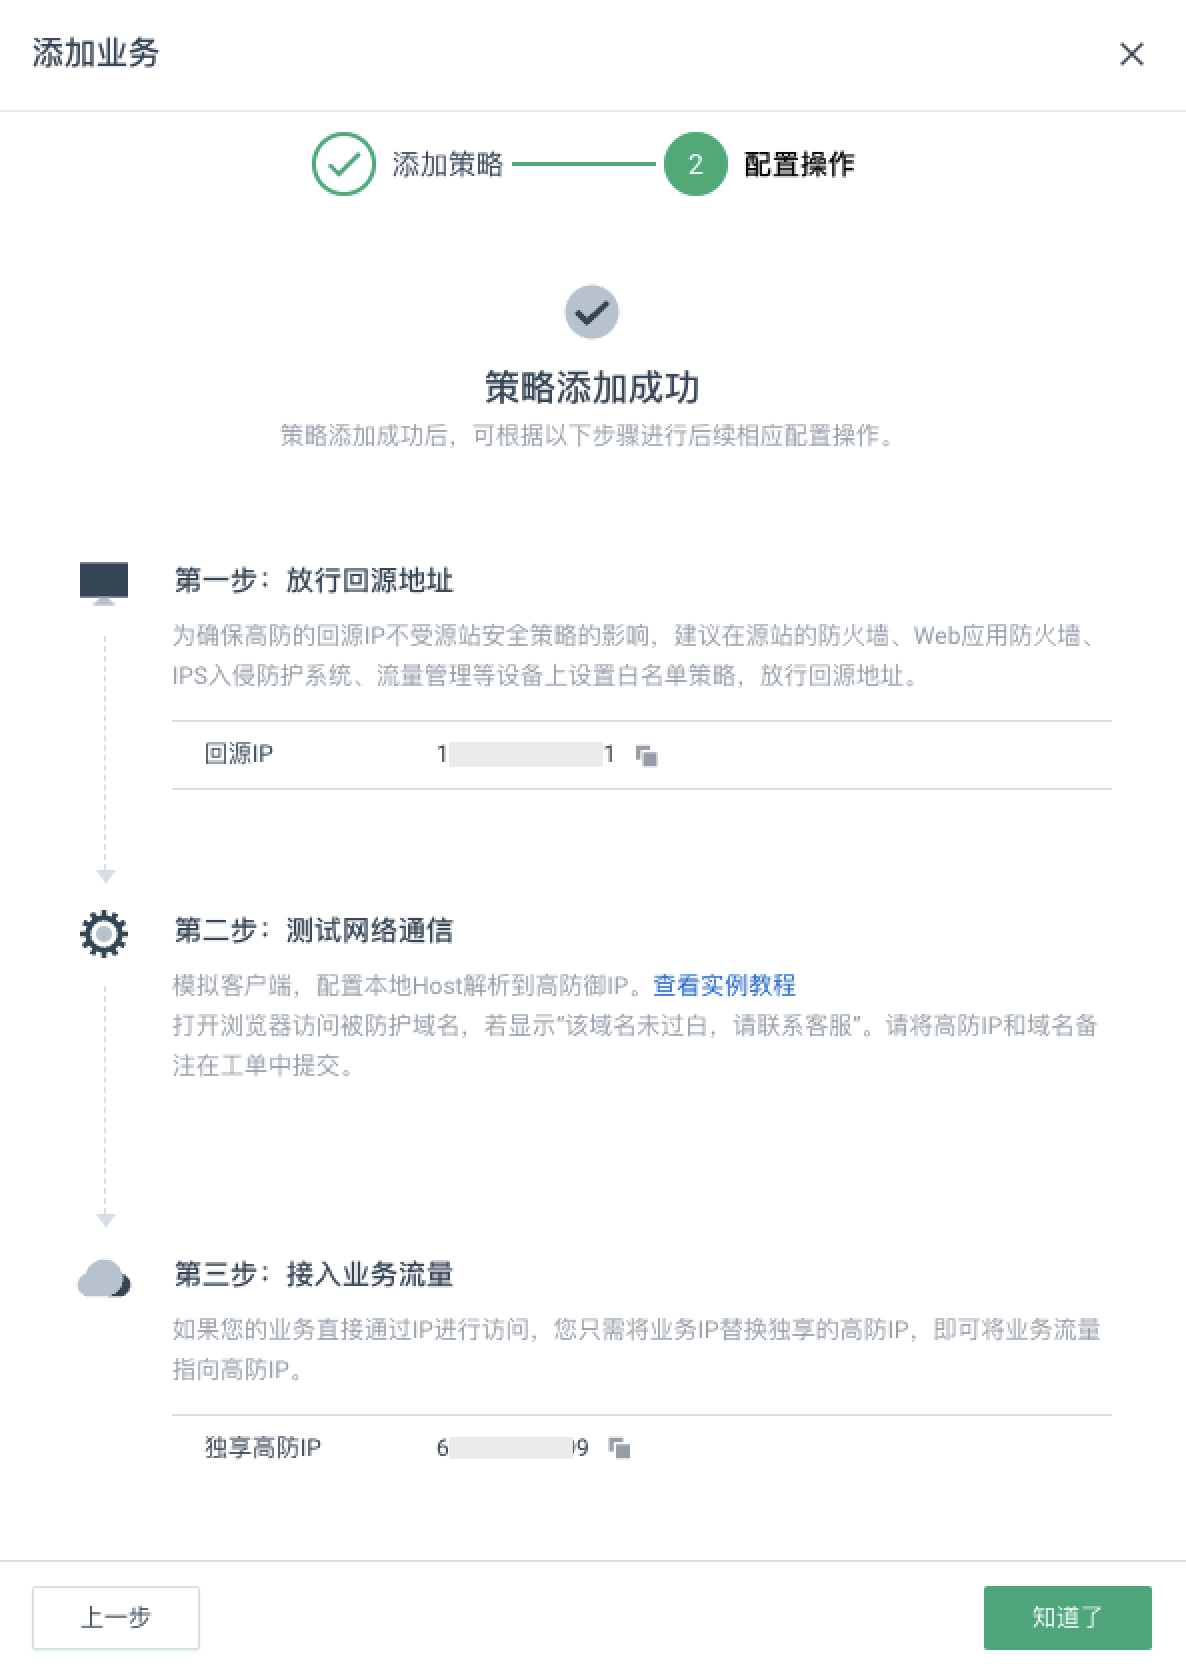
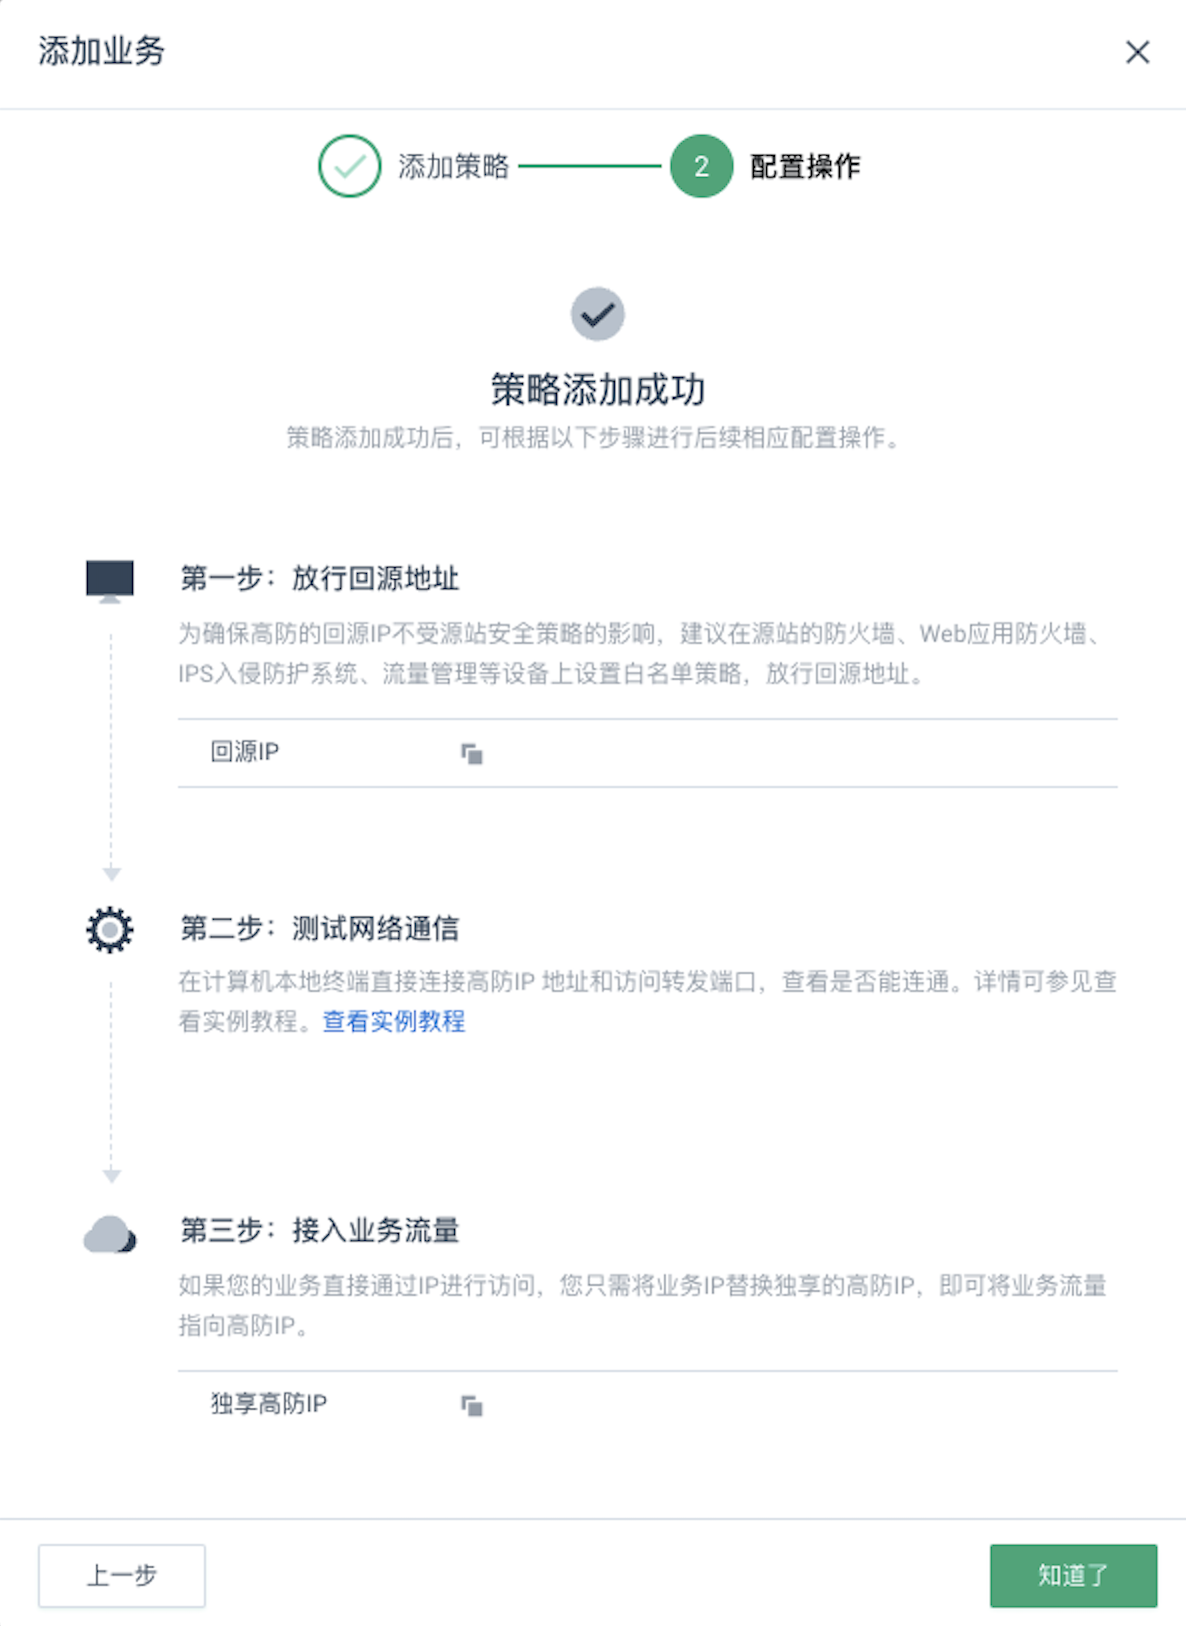
高防IP优化

diff --git a/content/security/antiddos_ip/quickstart/antiddos_access.md b/content/security/antiddos_ip/quickstart/antiddos_access.md
@@ -84,7 +84,9 @@ keyword: 高防IP, 高防IP实例, 添加转发策略
    10.1.10.2 www.example.com
    ```
 
-9. 打开浏览器，访问被防护的域名。
+   在本地计算机对被防护的域名运行 ping 命令。当解析到的 IP 地址是 hosts 文件中绑定的高防 IP 地址时，说明本地hosts生效。
+
+9. 打开浏览器，访问被防护的域名，若能正常访问表示配置生效。
 
    > 如果显示“该域名未过白，请联系客服”，请提交工单，并将`高防 IP`和`域名`备注在工单中。
 
@@ -128,32 +130,19 @@ keyword: 高防IP, 高防IP实例, 添加转发策略
 
 #### 第二步：测试网络通信
 
-5. 模拟客户端，配置本地 host 解析到高防 IP。
+5. 对于端口接入的业务，直接通过 IP 进行交互，可在计算机本地连接高防 IP 地址和访问转发端口，查看是否能连通。
 
-   以 Windows 10为例，在 C:\Windows\System32\drivers\etc 中打开 HOSTS 文件。
+   以 ssh 协议为例，高防 IP 为10.1.1.2，转发端口为2222，源站 IP 为10.2.2.3，源站端口为22，当高防 IP 下接入信息的**接入状态**显示**生效**，执行以下命令。
 
-   增加一条如下内容，并保存。
-
-   ```
-   <高防 IP 地址> <被防护网站的域名>
-   ```
-
-   例如：
+   ![](../../_images/access-1.png)
 
    ```
-   10.1.10.2 www.example.com
+   ssh root@10.1.1.2 -p 2222
    ```
 
-6. 打开浏览器，访问被防护的域名。
-
-   > 如果显示“该域名未过白，请联系客服”，请提交工单，并将`高防 IP`和`域名`备注在工单中。
+   若`ssh`命令能连通则说明转发成功。
 
 #### 第三步：接入业务流量
 
-> - 如果您的业务直接可直接通过 IP 进行访问，您只需要将业务 IP 替换为独享的高防 IP，即可将业务流量指向高防 IP。
-> - 如果您的业务使用域名指向服务器地址，请前往接入域名所属 DNS 解析服务商控制台，将流量指向独享的高防 IP。支持 A 记录接入。
-
-7. 以使用了青云的 DNS 服务为例，可参考青云 DNS 配置子域名进行配置，详情请参见[管理子域名](/site/dns/manual/dnsrecord/subzone/)。
-
-   ![](../../_images/06.png)
+6. 如果您的业务直接可直接通过 IP 进行访问，您只需要将业务 IP 替换为独享的高防 IP，即可将业务流量指向高防 IP。
 
